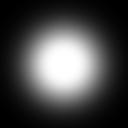
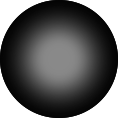
Fix dark mode

diff --git a/core/src/edu/cornell/gdiac/discodale/GameMode.java b/core/src/edu/cornell/gdiac/discodale/GameMode.java
@@ -865,17 +865,22 @@ public class GameMode implements Screen {
 	public void draw(float dt) {
 		canvas.clear();
 
-		canvas.begin();
-		canvas.draw(background, Color.WHITE,0, 0, scene.getBounds().getWidth() * scene.getTileSize(),
-				scene.getBounds().getHeight() * scene.getTileSize());
-		scene.draw(canvas);
-
-		for (Obstacle obj : objects) {
-			obj.draw(canvas);
-		}
-		canvas.end();
-
 		if(scene.isDarkMode()){
+			canvas.begin();
+			scene.draw(canvas);
+			canvas.end();
+
+			canvas.begin2();
+			canvas.draw(background, Color.WHITE,0, 0, scene.getBounds().getWidth() * scene.getTileSize(),
+					scene.getBounds().getHeight() * scene.getTileSize());
+			canvas.endLight();
+
+			canvas.begin();
+			for (Obstacle obj : objects) {
+				obj.draw(canvas);
+			}
+			canvas.endLight();
+
 			// Draw light
 			canvas.beginLight();
 			float ch = canvas.getHeight();
@@ -892,6 +897,17 @@ public class GameMode implements Screen {
 			canvas.draw(darkness,new Color(256,256,256,0.5f),cw/2f,ch/2f,canvas.getCameraX(),canvas.getCameraY(),cw,ch);
 			canvas.endLight();
 		}
+		else{
+			canvas.begin();
+			canvas.draw(background, Color.WHITE,0, 0, scene.getBounds().getWidth() * scene.getTileSize(),
+					scene.getBounds().getHeight() * scene.getTileSize());
+			scene.draw(canvas);
+			for (Obstacle obj : objects) {
+				obj.draw(canvas);
+			}
+			canvas.end();
+		}
+
 
 		if (debug) {
 			canvas.beginDebug();

diff --git a/core/src/edu/cornell/gdiac/discodale/GameCanvas.java b/core/src/edu/cornell/gdiac/discodale/GameCanvas.java
@@ -325,6 +325,14 @@ public class GameCanvas {
 		Gdx.gl.glClear(GL20.GL_COLOR_BUFFER_BIT);		
 	}
 
+	public void begin2(){
+		spriteBatch.setProjectionMatrix(camera.combined);
+		spriteBatch.setBlendFunction(GL20.GL_SRC_ALPHA,GL20.GL_SRC_ALPHA);
+
+		spriteBatch.begin();
+		active = DrawPass.STANDARD;
+	}
+
 	public void beginLight(){
 		spriteBatch.setProjectionMatrix(camera.combined);
 //		spriteBatch.setBlendFunction(GL20.GL_DST_COLOR, GL20.GL_SRC_ALPHA);
